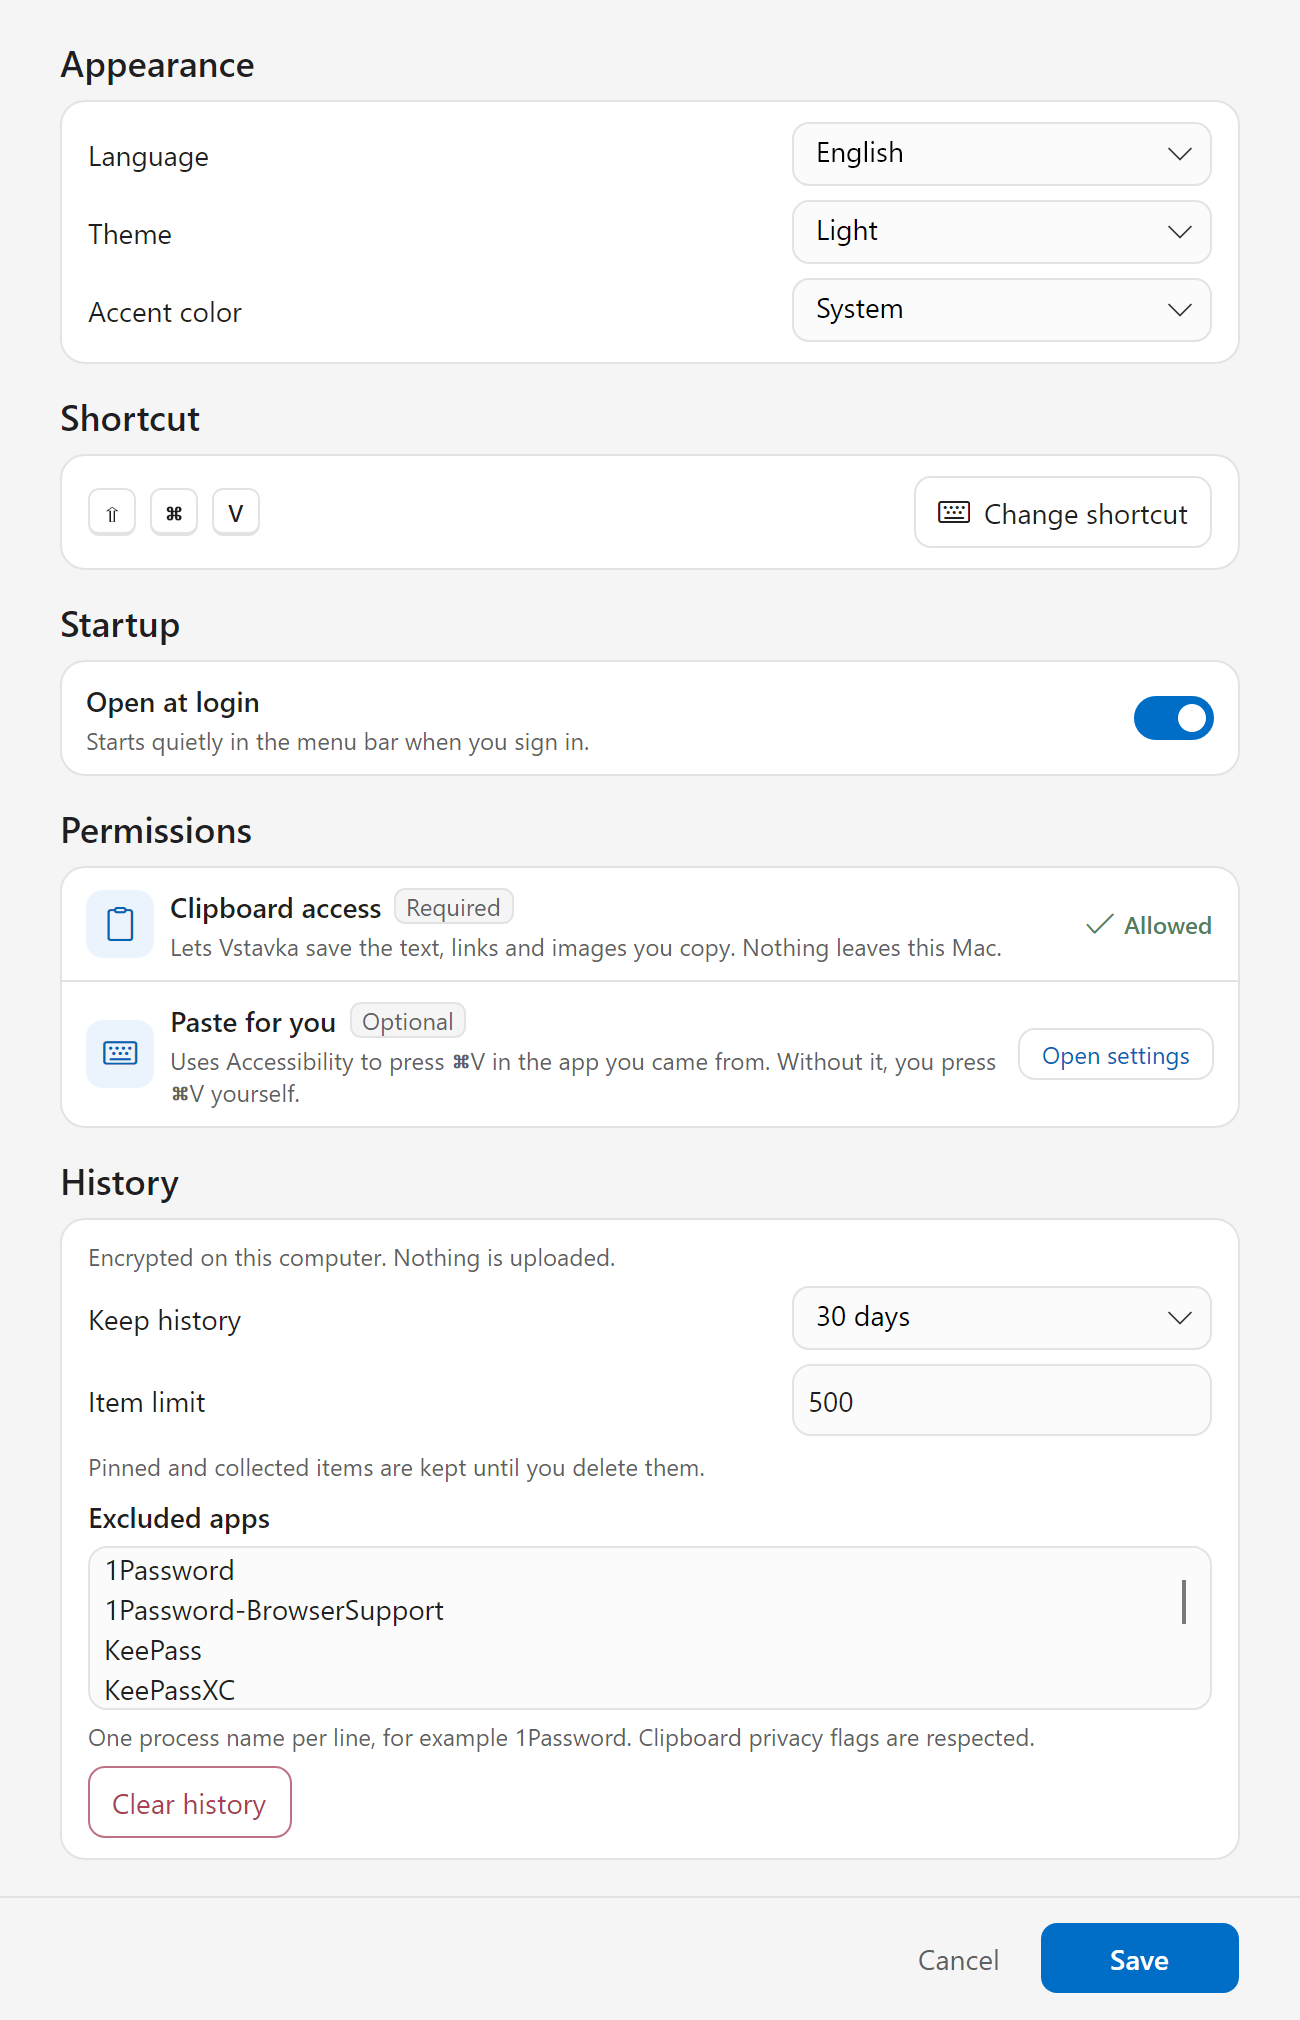
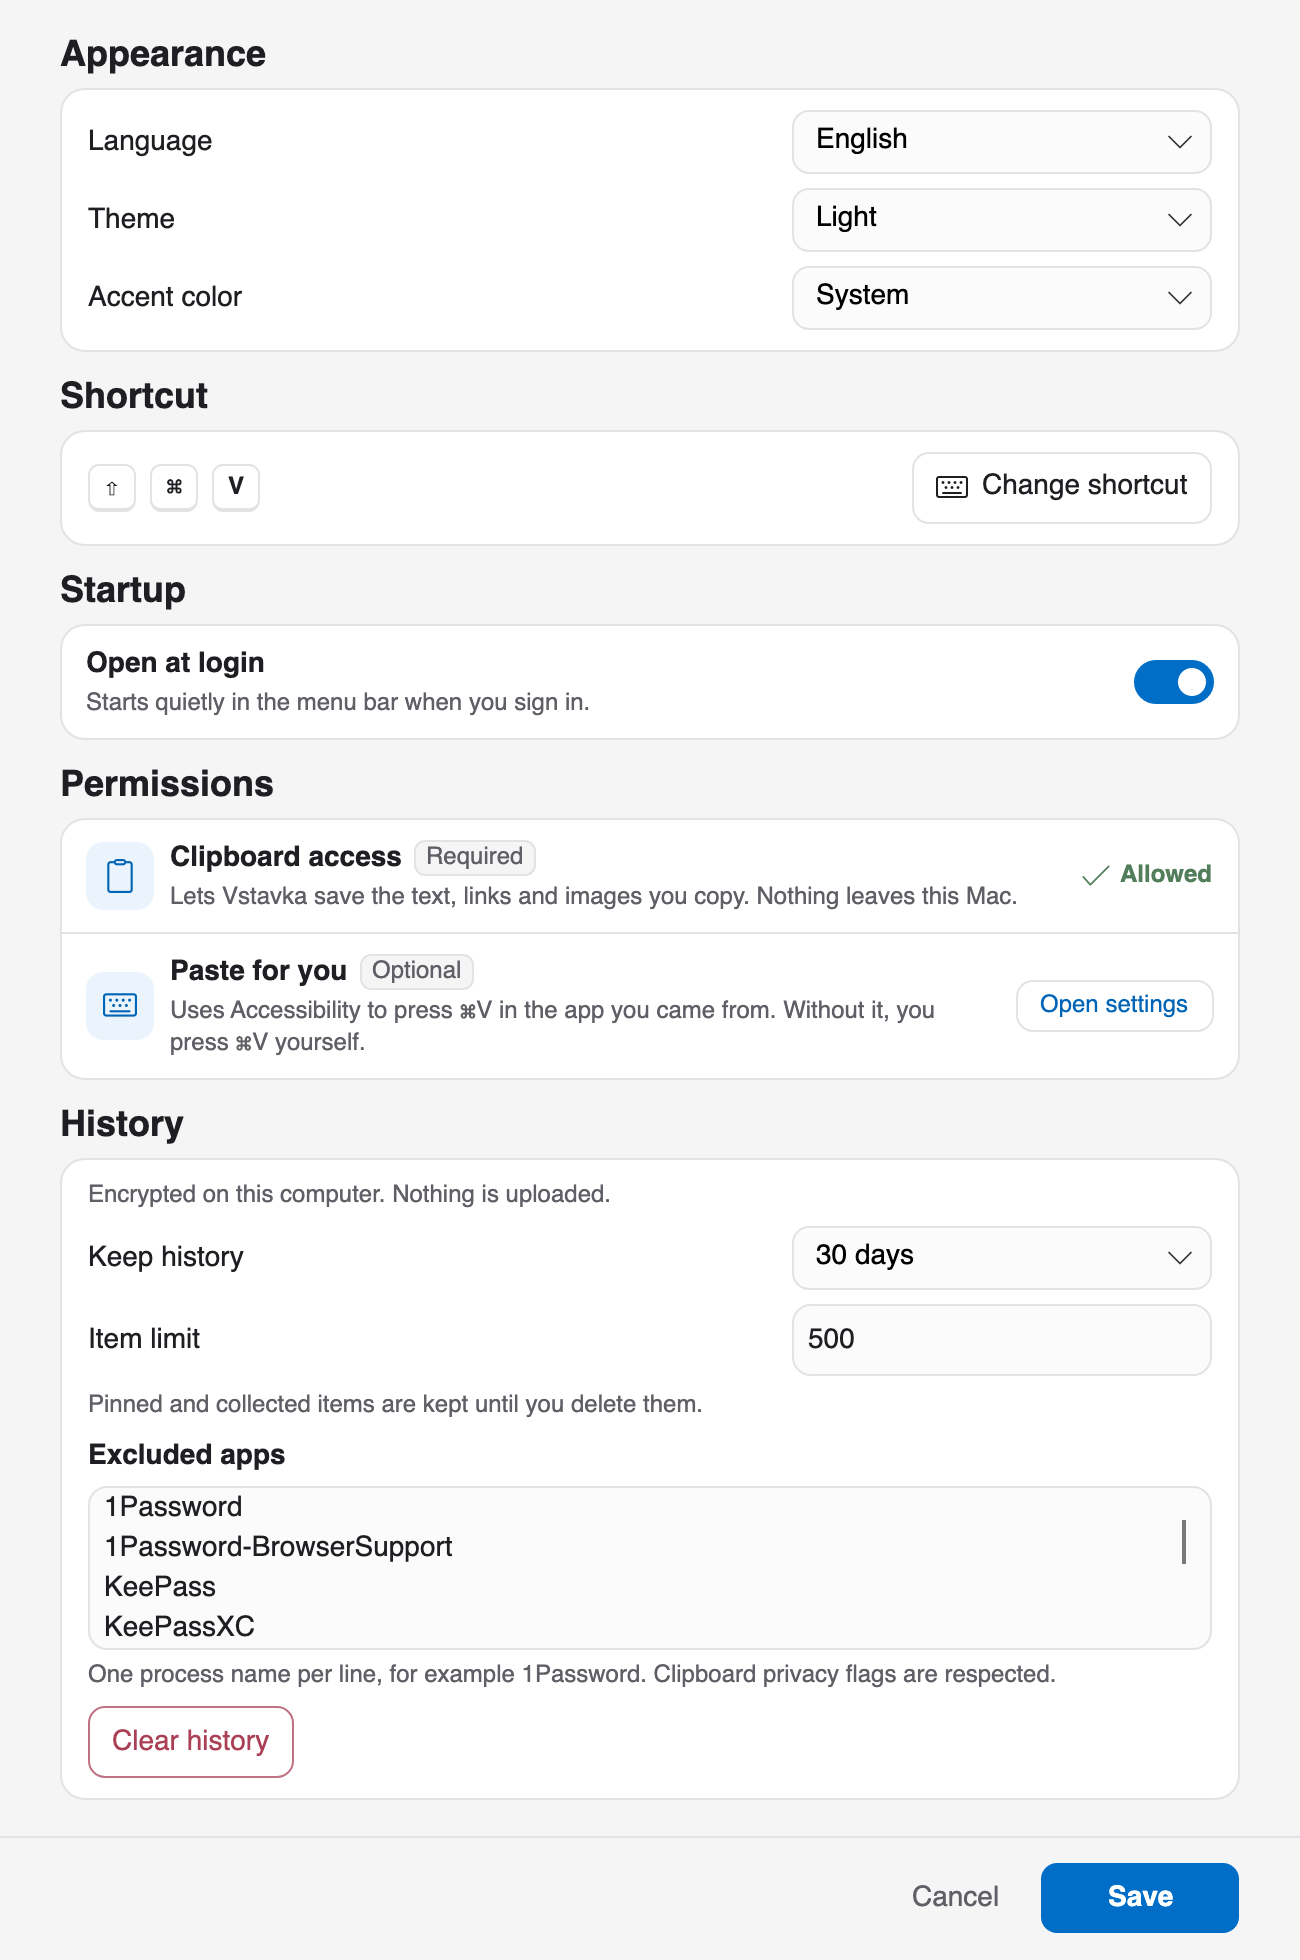
Open the README with store badges and the panel on a macOS desktop
The links under the title become buttons: Microsoft's own Store badge and
matching "Build it for macOS" and "Build it for Ubuntu" badges, each in a
light and a dark variant.

The first picture now shows where the panel lives. The README render puts
the rendered panel at the bottom of a drawn macOS desktop with a menu bar,
a text window and a picture window, at the size of a 1280 x 800 screen.
All README images are rendered on a Mac, so their text uses its fonts.

diff --git a/tests/Vstavka.Desktop.Tests/MacDesktop.cs b/tests/Vstavka.Desktop.Tests/MacDesktop.cs
@@ -1,0 +1,244 @@
+using System.Globalization;
+using Avalonia;
+using Avalonia.Controls;
+using Avalonia.Controls.Documents;
+using Avalonia.Layout;
+using Avalonia.Media;
+using Avalonia.Media.Imaging;
+using Avalonia.Platform;
+using Vstavka.Desktop;
+using Path = Avalonia.Controls.Shapes.Path;
+
+/// <summary>
+/// The picture that opens the README: a drawn macOS desktop with the rendered panel at the bottom of the screen.
+/// </summary>
+internal static class MacDesktop
+{
+    public const double Width = 1280;
+    public const double Height = 800;
+
+    /// <summary>The gap PanelWindow keeps between the panel and the edges of the screen.</summary>
+    public const double PanelMargin = 12;
+
+    private const string AppleLogo =
+        "M12.152 6.896c-.948 0-2.415-1.078-3.96-1.04-2.04.027-3.91 1.183-4.961 3.014-2.117 3.675-.546 9.103 1.519 12.09 " +
+        "1.013 1.454 2.208 3.09 3.792 3.039 1.52-.065 2.09-.987 3.935-.987 1.831 0 2.35.987 3.96.948 1.637-.026 2.676-1.48 " +
+        "3.676-2.948 1.156-1.688 1.636-3.325 1.662-3.415-.039-.013-3.182-1.221-3.22-4.857-.026-3.04 2.48-4.494 2.597-4.559" +
+        "-1.429-2.09-3.623-2.324-4.39-2.376-2-.156-3.675 1.09-4.61 1.09zM15.53 3.83c.843-1.012 1.4-2.427 1.245-3.83-1.207.052" +
+        "-2.662.805-3.532 1.818-.78.896-1.454 2.338-1.273 3.714 1.338.104 2.715-.688 3.559-1.701";
+
+    /// <param name="panelPng">The panel rendered at twice its size.</param>
+    public static Window Create(byte[] panelPng, bool dark)
+    {
+        var desktop = Wallpaper(dark);
+        // The macOS interface font, where a Mac has it installed under this name; other systems use their default font.
+        TextElement.SetFontFamily(desktop, FontFamily.Parse("SF Pro Text"));
+        Place(desktop, MenuBar(dark), 0, 0);
+        Place(desktop, AppWindow(dark, "Trail map.png", active: false, 448,
+            Slab(447, 252, 0, 9.5, new ImageBrush(Decode(DemoSamples.ExampleImage(scale: 3))) { Stretch = Stretch.UniformToFill })), 628, 118);
+        Place(desktop, AppWindow(dark, "Saturday plan.txt", active: true, 548, Note(dark)), 176, 62);
+
+        // The panel's surface sits 5 units inside its window and has 23-unit corners; the shadow follows it.
+        var panel = Decode(panelPng);
+        var width = panel.PixelSize.Width / 2.0;
+        var height = panel.PixelSize.Height / 2.0;
+        var top = Height - PanelMargin - height;
+        Place(desktop, new Border
+        {
+            Width = width - 10, Height = height - 10, CornerRadius = new CornerRadius(23),
+            BoxShadow = BoxShadows.Parse(dark ? "0 16 48 0 #99000000" : "0 16 48 0 #59000000")
+        }, PanelMargin + 5, top + 5);
+        Place(desktop, new Image { Source = panel, Width = width, Height = height }, PanelMargin, top);
+
+        return new Window
+        {
+            Width = Width, Height = Height, Background = Brushes.Transparent, TransparencyLevelHint = [WindowTransparencyLevel.Transparent],
+            Content = new Border { CornerRadius = new CornerRadius(14), ClipToBounds = true, Child = desktop }
+        };
+    }
+
+    private static Canvas Wallpaper(bool dark)
+    {
+        var wallpaper = new Canvas
+        {
+            Width = Width, Height = Height,
+            Background = new LinearGradientBrush
+            {
+                StartPoint = new RelativePoint(0, 0, RelativeUnit.Relative), EndPoint = new RelativePoint(1, 1, RelativeUnit.Relative),
+                GradientStops = dark
+                    ? [new(Color.Parse("#0C1230"), 0), new(Color.Parse("#231650"), .55), new(Color.Parse("#3B1552"), 1)]
+                    : [new(Color.Parse("#DCE8FB"), 0), new(Color.Parse("#E6DEF8"), .55), new(Color.Parse("#F7E1EC"), 1)]
+            }
+        };
+        (string Color, double X, double Y, double Width, double Height)[] glows = dark
+            ?
+            [
+                ("#A63F6FE0", 900, 40, 1300, 760), ("#B37A4BEA", 300, 640, 1400, 900),
+                ("#99D0489A", 1240, 700, 1000, 800), ("#5924B6B0", 60, 120, 700, 560)
+            ]
+            :
+            [
+                ("#CC9DC4FA", 900, 40, 1300, 760), ("#CCB59CF5", 300, 640, 1400, 900),
+                ("#CCF6B3D0", 1240, 700, 1000, 800), ("#99FBDDBB", 60, 120, 700, 560)
+            ];
+        foreach (var glow in glows)
+        {
+            var color = Color.Parse(glow.Color);
+            Place(wallpaper, new Avalonia.Controls.Shapes.Ellipse
+            {
+                Width = glow.Width, Height = glow.Height,
+                Fill = new RadialGradientBrush { GradientStops = [new(color, 0), new(new Color(0, color.R, color.G, color.B), 1)] }
+            }, glow.X - glow.Width / 2, glow.Y - glow.Height / 2);
+        }
+        return wallpaper;
+    }
+
+    private static Border MenuBar(bool dark)
+    {
+        var ink = Ink(dark, 1);
+        var faint = Ink(dark, .45);
+        var menus = Row(19, new Path { Data = Geometry.Parse(AppleLogo), Fill = ink, Stretch = Stretch.Uniform, Height = 15.5, Margin = new Thickness(0, -1.5, 1, 0) },
+            Label("TextEdit", ink, FontWeight.Bold));
+        foreach (var menu in new[] { "File", "Edit", "Format", "View", "Window", "Help" })
+            menus.Children.Add(Label(menu, ink));
+
+        using var icon = AssetLoader.Open(new Uri("avares://Vstavka.Desktop/Assets/Vstavka.png"));
+        var battery = Row(1,
+            new Border
+            {
+                Width = 22.5, Height = 11.5, CornerRadius = new CornerRadius(3.4), BorderBrush = faint, BorderThickness = new Thickness(1),
+                Padding = new Thickness(1), Child = new Border { Background = ink, CornerRadius = new CornerRadius(1.8) }
+            },
+            new Border { Width = 1.4, Height = 4, Background = faint, CornerRadius = new CornerRadius(0, 1, 1, 0) });
+        var status = Row(15, new Image { Source = new Bitmap(icon), Width = 17, Height = 17 }, battery,
+            Stroked(16, 12, "M0.8,4 A10.2,10.2 0 0 1 15.2,4 M3.1,6.3 A6.9,6.9 0 0 1 12.9,6.3 M5.4,8.7 A3.6,3.6 0 0 1 10.6,8.7 M7.9,11 L8.1,11", ink, 1.8),
+            Stroked(14, 14, "M10.4,5.8 A4.6,4.6 0 1 1 1.2,5.8 A4.6,4.6 0 1 1 10.4,5.8 M9.2,9.2 L13,13", ink, 1.6),
+            new Path
+            {
+                Width = 16, Height = 13, Fill = ink,
+                Data = Geometry.Parse(
+                    "M2.9,0 H13.1 A2.9,2.9 0 0 1 13.1,5.8 H2.9 A2.9,2.9 0 0 1 2.9,0 Z M3.1,1.2 A1.7,1.7 0 1 0 3.1,4.6 A1.7,1.7 0 1 0 3.1,1.2 Z " +
+                    "M2.9,7.2 H13.1 A2.9,2.9 0 0 1 13.1,13 H2.9 A2.9,2.9 0 0 1 2.9,7.2 Z M12.9,8.4 A1.7,1.7 0 1 0 12.9,11.8 A1.7,1.7 0 1 0 12.9,8.4 Z")
+            },
+            Label(DateTime.Now.ToString("ddd MMM d   h:mm tt", CultureInfo.InvariantCulture), ink));
+
+        menus.Margin = new Thickness(20, 0, 0, 0);
+        status.Margin = new Thickness(0, 0, 16, 0);
+        status.HorizontalAlignment = HorizontalAlignment.Right;
+        return new Border
+        {
+            Width = Width, Height = 26, Background = Brush(dark ? "#4D0A0A14" : "#73FFFFFF"),
+            Child = new Panel { Children = { menus, status } }
+        };
+    }
+
+    private static Panel AppWindow(bool dark, string title, bool active, double width, Control content)
+    {
+        string[] lights = active ? ["#FF5F57", "#FEBC2E", "#28C840"] : dark ? ["#5C5C61", "#5C5C61", "#5C5C61"] : ["#D2D2D6", "#D2D2D6", "#D2D2D6"];
+        var buttons = Row(8);
+        buttons.Margin = new Thickness(10, 0);
+        foreach (var light in lights)
+            buttons.Children.Add(new Avalonia.Controls.Shapes.Ellipse { Width = 12, Height = 12, Fill = Brush(light) });
+
+        var name = Label(title, Ink(dark, active ? .85 : .45), FontWeight.SemiBold);
+        name.HorizontalAlignment = HorizontalAlignment.Center;
+        var bar = new Panel
+        {
+            Children = { Slab(width - 1, 28, 9.5, 0, Brush(dark ? active ? "#3A3A3D" : "#2E2E31" : active ? "#ECECEF" : "#F5F5F7")), buttons, name }
+        };
+        var corners = new CornerRadius(10);
+        return new Panel
+        {
+            Width = width,
+            Children =
+            {
+                // The shadow has its own Border: in a 2x bitmap, a Border with a BoxShadow draws its children at twice the scale.
+                new Border { CornerRadius = corners, BoxShadow = BoxShadows.Parse(active ? "0 22 60 0 #73000000" : "0 10 30 0 #40000000") },
+                new Border
+                {
+                    CornerRadius = corners, Background = Brush(dark ? "#1E1E20" : "#FFFFFF"),
+                    BorderBrush = Brush(dark ? "#33FFFFFF" : "#33000000"), BorderThickness = new Thickness(.5),
+                    Child = new StackPanel { Children = { bar, new Border { Height = .5, Background = Brush(dark ? "#99000000" : "#1F000000") }, content } }
+                }
+            }
+        };
+    }
+
+    /// <summary>A rectangle with its own corner radius at the top and at the bottom.</summary>
+    private static Path Slab(double width, double height, double top, double bottom, IBrush fill)
+    {
+        var shape = new StreamGeometry();
+        using (var figure = shape.Open())
+        {
+            figure.BeginFigure(new Point(0, top), isFilled: true);
+            figure.ArcTo(new Point(top, 0), new Size(top, top), 0, false, SweepDirection.Clockwise);
+            figure.LineTo(new Point(width - top, 0));
+            figure.ArcTo(new Point(width, top), new Size(top, top), 0, false, SweepDirection.Clockwise);
+            figure.LineTo(new Point(width, height - bottom));
+            figure.ArcTo(new Point(width - bottom, height), new Size(bottom, bottom), 0, false, SweepDirection.Clockwise);
+            figure.LineTo(new Point(bottom, height));
+            figure.ArcTo(new Point(0, height - bottom), new Size(bottom, bottom), 0, false, SweepDirection.Clockwise);
+            figure.EndFigure(isClosed: true);
+        }
+        return new Path { Data = shape, Fill = fill };
+    }
+
+    private static StackPanel Note(bool dark)
+    {
+        var ink = Ink(dark, .88);
+        TextBlock Line(string text, FontWeight weight = FontWeight.Normal) => new()
+        {
+            Text = text, FontSize = 14, LineHeight = 21, FontWeight = weight, Foreground = ink, TextWrapping = TextWrapping.Wrap
+        };
+        return new StackPanel
+        {
+            Height = 402, Margin = new Thickness(18, 14, 22, 0),
+            Children =
+            {
+                Line("Saturday field trip", FontWeight.Bold),
+                Line(" "),
+                Line("North path is open again. Take the short loop past the river and stop at the old bridge."),
+                Line(" "),
+                Line("Note for everyone:"),
+                new Border { Width = 1.5, Height = 18, Margin = new Thickness(0, 2, 0, 0), HorizontalAlignment = HorizontalAlignment.Left, Background = Brush(dark ? "#0A84FF" : "#007AFF") }
+            }
+        };
+    }
+
+    private static StackPanel Row(double spacing, params Control[] children)
+    {
+        var row = new StackPanel { Orientation = Orientation.Horizontal, Spacing = spacing, VerticalAlignment = VerticalAlignment.Center };
+        foreach (var child in children)
+        {
+            child.VerticalAlignment = VerticalAlignment.Center;
+            row.Children.Add(child);
+        }
+        return row;
+    }
+
+    private static TextBlock Label(string text, IBrush ink, FontWeight weight = FontWeight.Medium) =>
+        new() { Text = text, FontSize = 13, FontWeight = weight, Foreground = ink, VerticalAlignment = VerticalAlignment.Center };
+
+    private static Path Stroked(double width, double height, string data, IBrush ink, double thickness) => new()
+    {
+        Width = width, Height = height, Data = Geometry.Parse(data), Stroke = ink, StrokeThickness = thickness,
+        StrokeLineCap = PenLineCap.Round, StrokeJoin = PenLineJoin.Round
+    };
+
+    private static Bitmap Decode(byte[] png)
+    {
+        using var stream = new MemoryStream(png);
+        return new Bitmap(stream);
+    }
+
+    private static SolidColorBrush Ink(bool dark, double opacity) => new(dark ? Colors.White : Colors.Black, opacity);
+
+    private static SolidColorBrush Brush(string color) => new(Color.Parse(color));
+
+    private static void Place(Canvas canvas, Control child, double left, double top)
+    {
+        Canvas.SetLeft(child, left);
+        Canvas.SetTop(child, top);
+        canvas.Children.Add(child);
+    }
+}

diff --git a/tests/Vstavka.Desktop.Tests/Program.cs b/tests/Vstavka.Desktop.Tests/Program.cs
@@ -1077,8 +1077,11 @@ static void RenderReadme(string directory)
         foreach (var (variant, name) in new[] { (ThemeVariant.Light, "light"), (ThemeVariant.Dark, "dark") })
         {
             var panel = OpenPanel(demo, history, variant);
+            byte[] shot;
             try
             {
+                panel.Width = MacDesktop.Width - MacDesktop.PanelMargin * 2;
+                Flush(panel);
                 var cards = Find<ListBox>(panel, "Cards");
                 Check(cards.Items.Count == 6 && ReferenceEquals(cards.SelectedItem, note), "The selected note and all six demo items are in the panel.");
                 var scroll = (ScrollViewer)cards.Scroll!;
@@ -1087,9 +1090,17 @@ static void RenderReadme(string directory)
                 cards.Styles.Add(new Style(selector => selector.OfType<ListBoxItem>()) { Setters = { new Setter(Layoutable.WidthProperty, width) } });
                 Flush(panel);
                 Check(scroll.Extent.Width <= scroll.Viewport.Width, "All six cards fit in the README panel.");
-                SaveStill(panel, "panel-" + name);
+                using var frame = Capture(panel);
+                using var png = new MemoryStream();
+                frame.Save(png, PngBitmapEncoderOptions.Default);
+                shot = png.ToArray();
             }
             finally { panel.Close(); }
+
+            var desktop = MacDesktop.Create(shot, variant == ThemeVariant.Dark);
+            desktop.Show();
+            try { SaveStill(desktop, "desktop-" + name); }
+            finally { desktop.Close(); }
         }
 
         var guide = new OnboardingWindow(demo, history, animate: false) { RequestedThemeVariant = ThemeVariant.Light };
@@ -1118,13 +1129,18 @@ static void RenderReadme(string directory)
 
     void SaveStill(Window window, string name)
     {
+        using var frame = Capture(window);
+        frame.Save(Path.Combine(directory, name + ".png"), PngBitmapEncoderOptions.Default);
+    }
+
+    static RenderTargetBitmap Capture(Window window)
+    {
         window.MouseMove(new Point(0, 0));
         window.FocusManager?.Focus(null);
         Flush(window);
-        var pixels = PixelSize.FromSize(window.ClientSize, 2);
-        using var frame = new RenderTargetBitmap(pixels, new Vector(192, 192));
+        var frame = new RenderTargetBitmap(PixelSize.FromSize(window.ClientSize, 2), new Vector(192, 192));
         frame.Render(window);
-        frame.Save(Path.Combine(directory, name + ".png"), PngBitmapEncoderOptions.Default);
+        return frame;
     }
 }
 

diff --git a/src/Vstavka.Desktop/DemoSamples.cs b/src/Vstavka.Desktop/DemoSamples.cs
@@ -32,9 +32,9 @@ internal static class DemoSamples
             store.SetSourceIcon(app, SourceIcon(app));
     }
 
-    internal static byte[] ExampleImage()
+    internal static byte[] ExampleImage(int scale = 1)
     {
-        using var bitmap = new RenderTargetBitmap(new PixelSize(320, 180));
+        using var bitmap = new RenderTargetBitmap(new PixelSize(320 * scale, 180 * scale), new Vector(96 * scale, 96 * scale));
         using (var drawing = bitmap.CreateDrawingContext())
         {
             drawing.FillRectangle(new SolidColorBrush(Color.Parse("#CADDDB")), new Rect(0, 0, 320, 180));

diff --git a/README.md b/README.md
@@ -10,9 +10,9 @@
 </p>
 
 <p align="center">
-  <a href="https://apps.microsoft.com/detail/9NVXW230R4PX">Microsoft Store</a> ·
-  <a href="#macos">macOS preview</a> ·
-  <a href="#ubuntu">Ubuntu preview</a>
+  <a href="https://apps.microsoft.com/detail/9NVXW230R4PX"><picture><source media="(prefers-color-scheme: dark)" srcset="https://get.microsoft.com/images/en-us%20light.svg"><img src="https://get.microsoft.com/images/en-us%20dark.svg" height="56" alt="Download from the Microsoft Store"></picture></a>
+  <a href="#macos"><picture><source media="(prefers-color-scheme: dark)" srcset="docs/images/badge-macos-light.svg"><img src="docs/images/badge-macos-dark.svg" height="56" alt="Build it for macOS"></picture></a>
+  <a href="#ubuntu"><picture><source media="(prefers-color-scheme: dark)" srcset="docs/images/badge-ubuntu-light.svg"><img src="docs/images/badge-ubuntu-dark.svg" height="56" alt="Build it for Ubuntu"></picture></a>
 </p>
 
 <p align="center">
@@ -20,8 +20,8 @@
 </p>
 
 <picture>
-  <source media="(prefers-color-scheme: dark)" srcset="docs/images/panel-dark.png">
-  <img src="docs/images/panel-light.png" alt="Vstavka panel with text, link, image, color and file cards">
+  <source media="(prefers-color-scheme: dark)" srcset="docs/images/desktop-dark.png">
+  <img src="docs/images/desktop-light.png" alt="A macOS desktop with the Vstavka panel open along the bottom of the screen, showing text, link, color, image and file cards">
 </picture>
 
 Vstavka remembers the text, links, color values, images and file paths you copy.

diff --git a/CONTRIBUTING.md b/CONTRIBUTING.md
@@ -31,7 +31,9 @@ clipboard history, a `history.vstavka` file, or logs with personal paths.
   recorded system boundaries instead of the real clipboard.
 - **README images** in `docs/images` are rendered from the cross-platform app
   with `dotnet run --project tests/Vstavka.Desktop.Tests -- --readme docs/images`.
-  The GIF needs `ffmpeg` on the `PATH` and system animations turned on.
+  The GIF needs `ffmpeg` on the `PATH` and system animations turned on. Run it
+  on a Mac: the images show macOS, and the desktop picture uses SF Pro when
+  the font is installed.
 
 For a manual pass before a release, use the
 [acceptance checklist](docs/acceptance.md).
